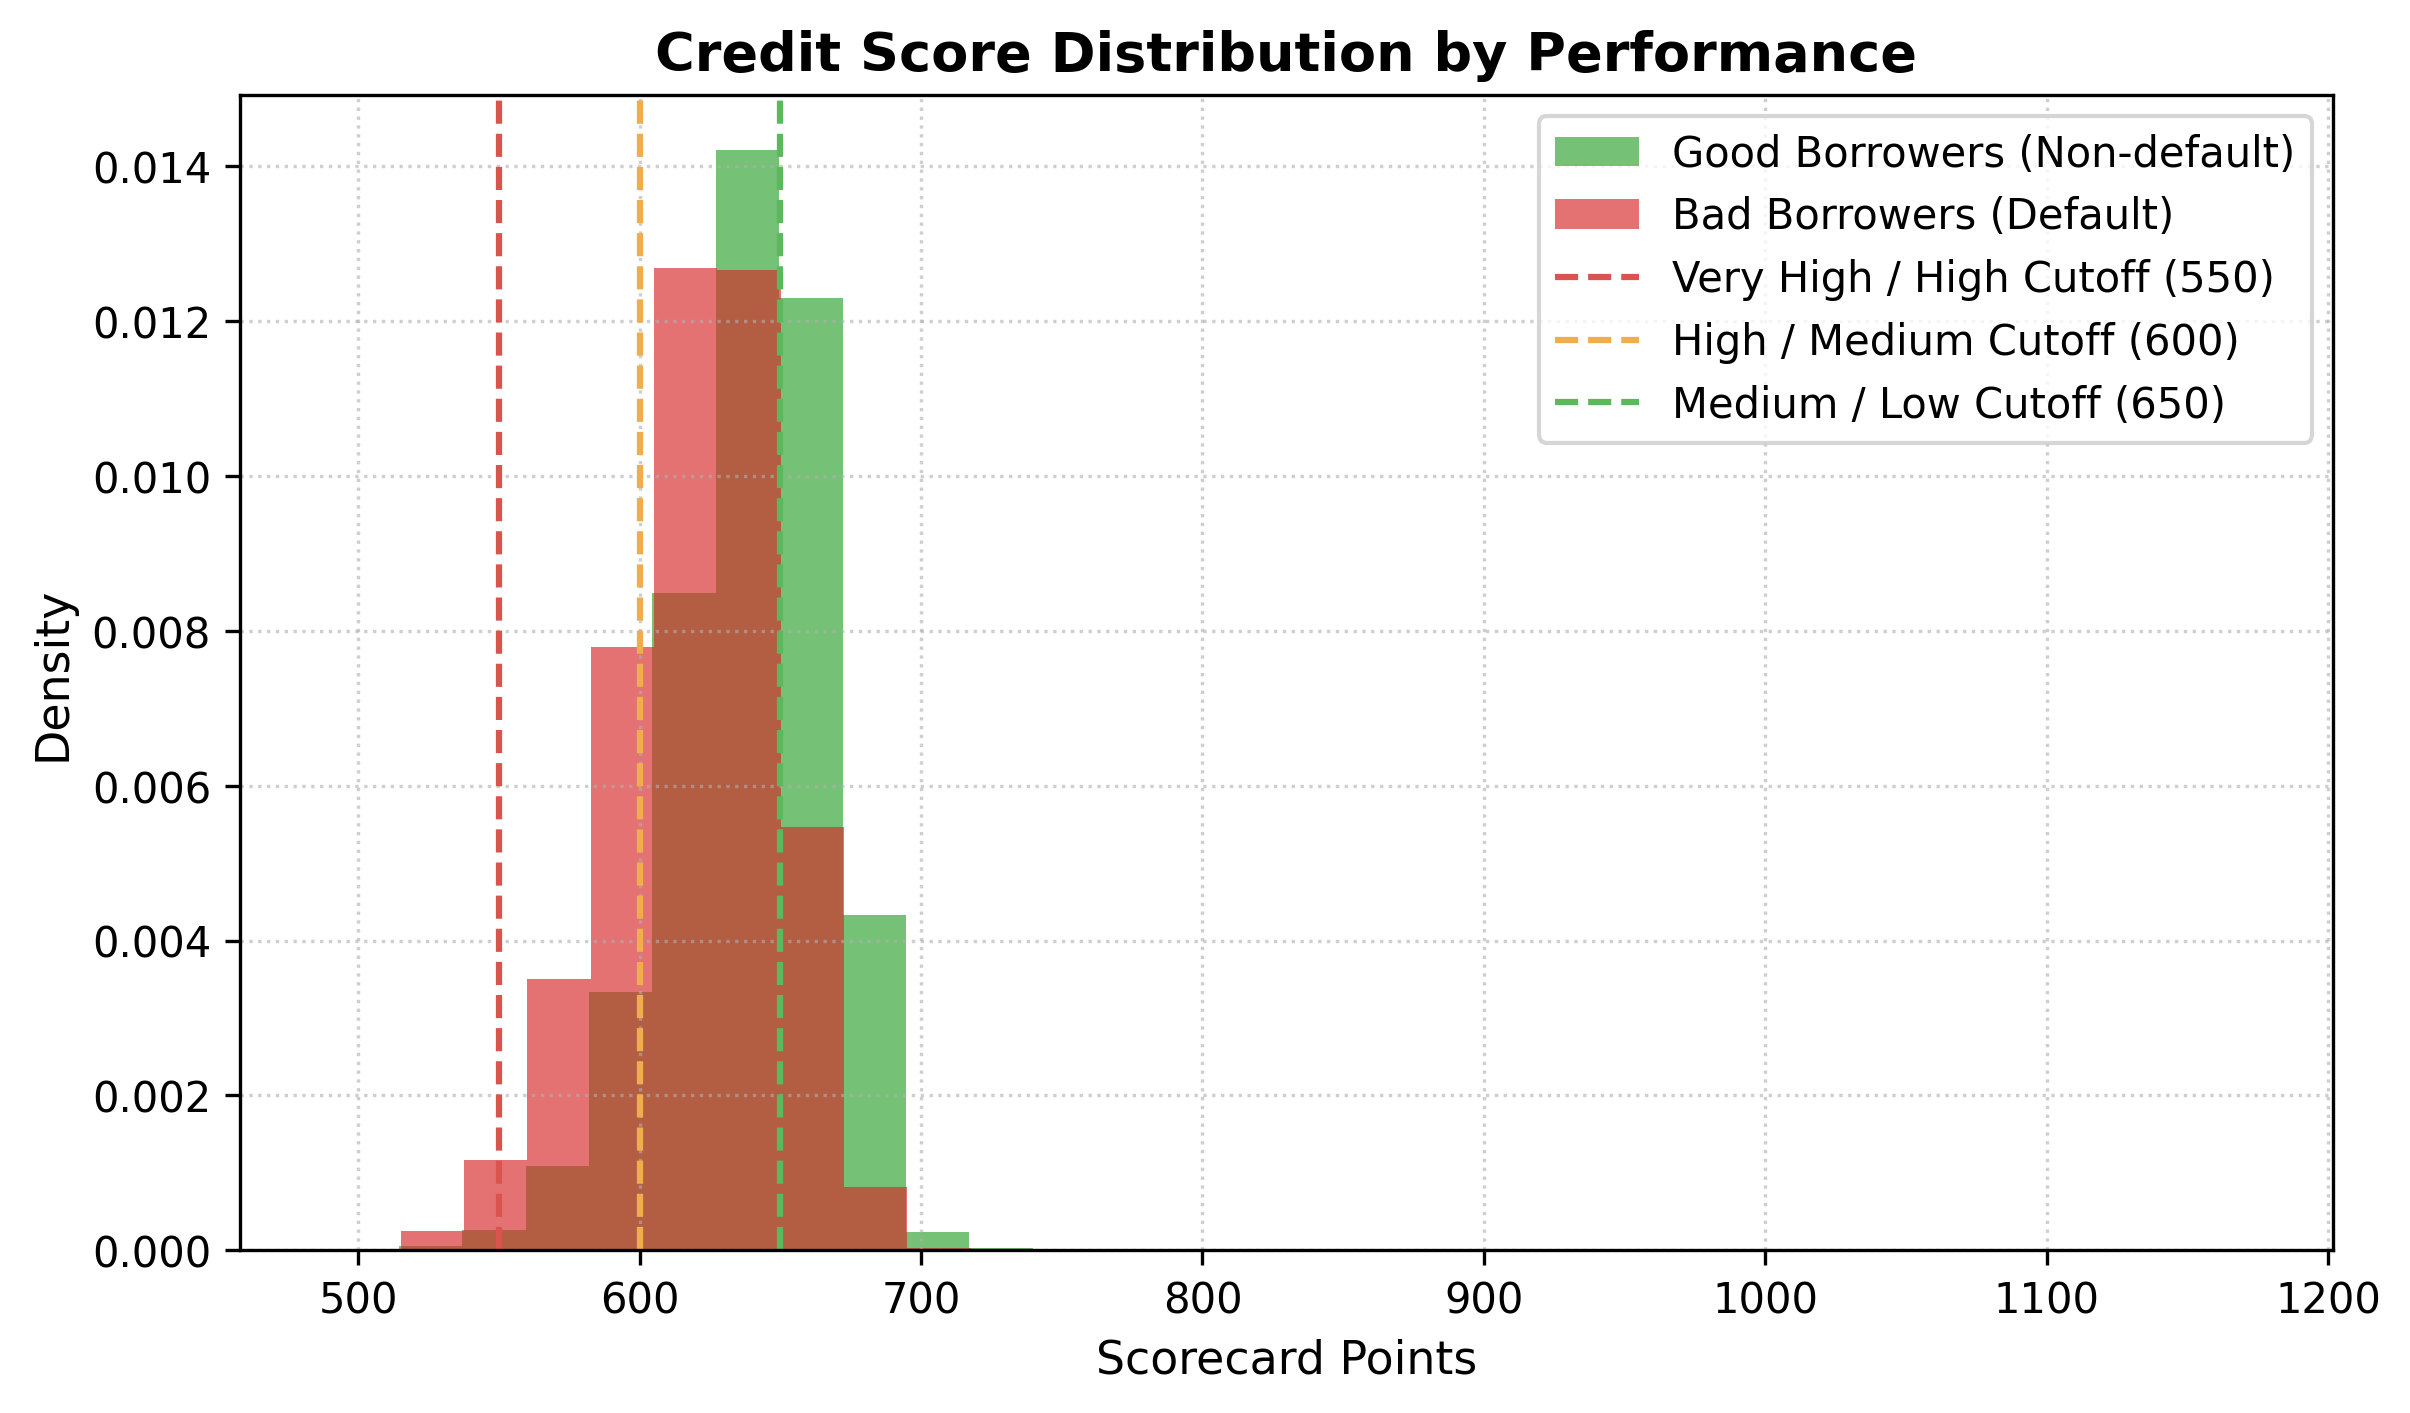
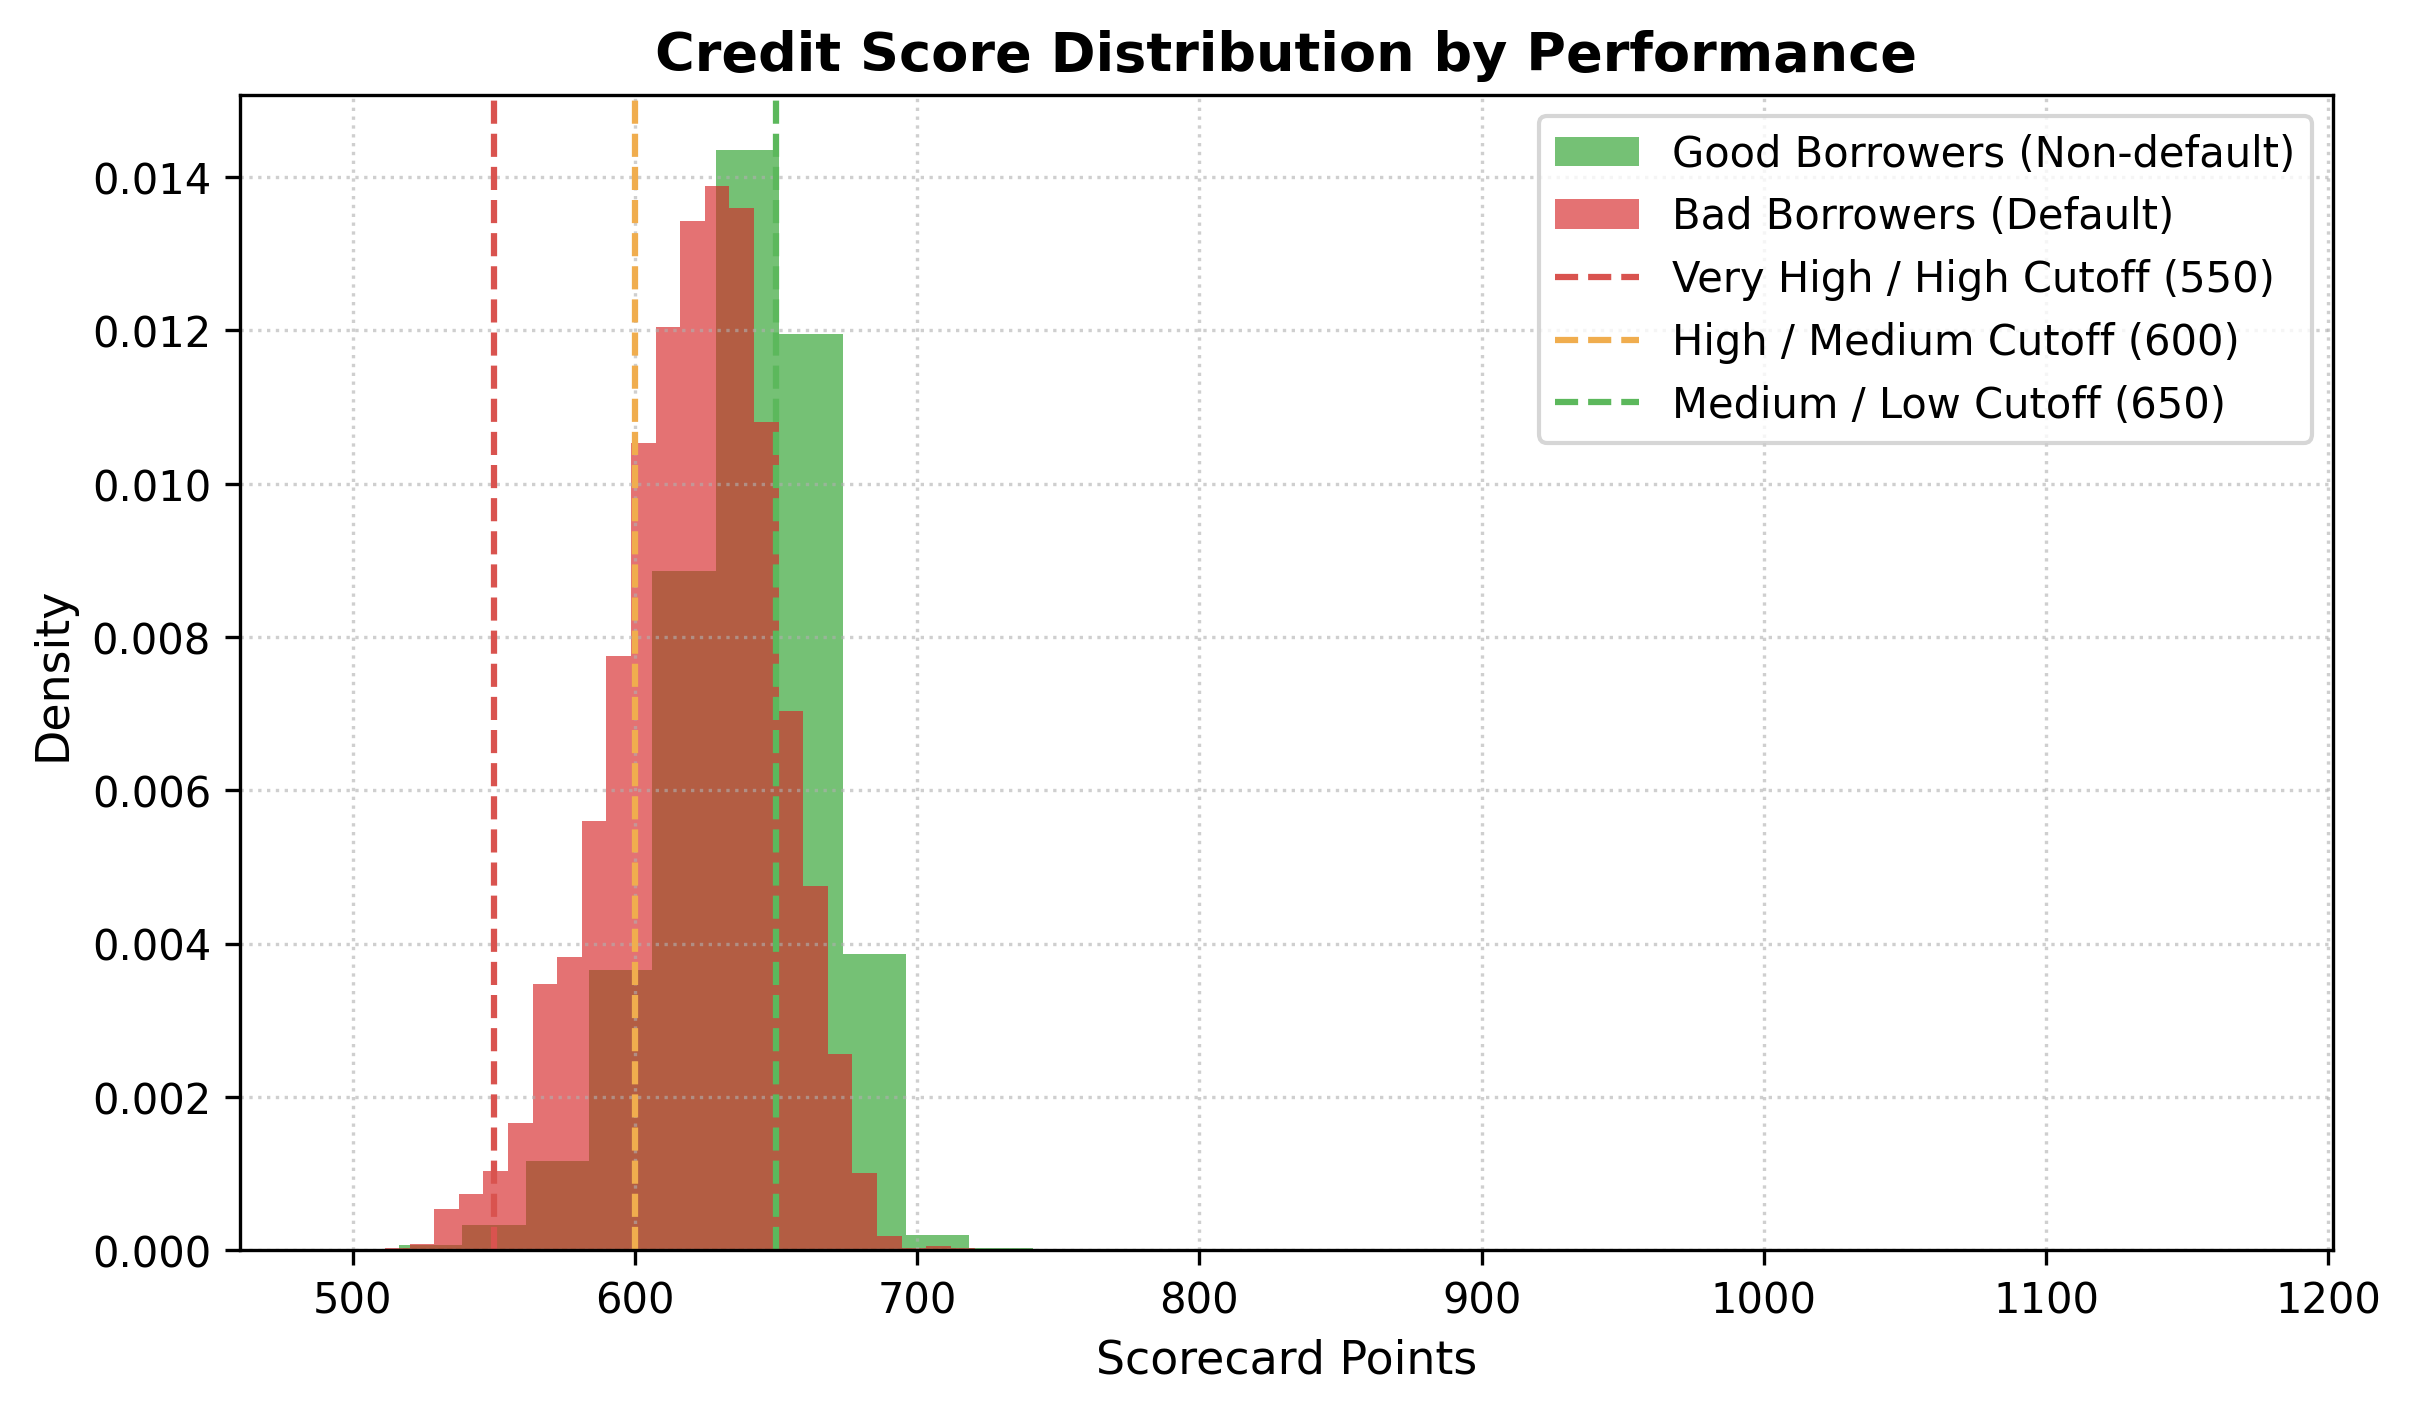
Fix full pipeline execution and plotting

diff --git a/reports/monthly_board_pack.html b/reports/monthly_board_pack.html
@@ -29,7 +29,7 @@
 <body>
 
     <h1>EXECUTIVE MONTHLY BOARD PACK</h1>
-    <div class="subtitle">Financial Performance & Credit Risk Reporting System | Period: Q4 Close | Published: November 12, 2026</div>
+    <div class="subtitle">Financial Performance & Credit Risk Reporting System | Period: Q4 Close | Published: November 17, 2026</div>
 
     <div class="kpi-container">
         <div class="kpi-card">

diff --git a/src/automation.py b/src/automation.py
@@ -20,6 +20,7 @@ import sys
 import json
 import logging
 import sqlite3
+import gc
 from datetime import datetime
 from typing import Any, Dict, Optional
 import numpy as np
@@ -114,6 +115,14 @@ def run_full_pipeline() -> Dict[str, Any]:
     eval_results = scorecard.evaluate(X_train_df, y_train)
     logger.info("Scorecard Model Eval: AUC=%.4f, Gini=%.4f, KS=%.4f",
                 eval_results["roc_auc"], eval_results["gini"], eval_results["ks_statistic"])
+    chart_sample = df_model_ready[
+        candidate_features + ["default_flag"]
+    ].sample(n=min(50_000, len(df_model_ready)), random_state=42)
+    chart_X = chart_sample[candidate_features].fillna(
+        df_model_ready[candidate_features].median()
+    )
+    chart_y = chart_sample["default_flag"].astype(int)
+    del chart_sample
 
     # Step 4: Financial Calculations
     logger.info("Step 4: Performing P&L, Balance Sheet, and Variance computations...")
@@ -171,6 +180,20 @@ def run_full_pipeline() -> Dict[str, Any]:
     conn.close()
     logger.info("SQLite database populated at %s", db_path)
 
+    loan_summary = {
+        "total_loans": len(df_loans_feat),
+        "total_exposure": df_loans_feat["loan_amnt"].sum(),
+        "total_expected_loss": df_loans_feat["expected_loss"].sum(),
+        "overall_default_rate": df_loans_feat["default_flag"].mean(),
+        "risk_band_counts": df_loans_feat["risk_band"].value_counts().to_dict(),
+        "risk_band_exposure": df_loans_feat.groupby("risk_band")["loan_amnt"].sum().to_dict(),
+        "risk_band_el": df_loans_feat.groupby("risk_band")["expected_loss"].sum().to_dict(),
+    }
+    del df_loans_raw, df_loans_clean, df_model_ready, X_train_df, y_train
+    del X_full_df, pd_estimates, scores, risk_bands, ead_estimates, expected_losses
+    del df_loans_feat
+    gc.collect()
+
     # Step 7: Reports Generation
     logger.info("Step 7: Generating Excel financial reports...")
     out_dir = get_output_path()
@@ -183,16 +206,24 @@ def run_full_pipeline() -> Dict[str, Any]:
     generate_budget_variance_report(df_variance, os.path.join(rep_dir, "budget_variance_report.xlsx"))
     generate_credit_risk_report(eval_results, os.path.join(rep_dir, "credit_risk_summary.xlsx"))
 
-    # Generate charts
-    train_scores = scorecard.calculate_score_from_pd(scorecard.predict_proba(X_train_df))
-    scorecard.plot_roc_curve(X_train_df, y_train, save_path=os.path.join(out_dir, "roc_curve.png"))
-    scorecard.plot_score_distribution(train_scores, y_true=y_train.values, save_path=os.path.join(out_dir, "score_distribution.png"))
+    # ROC construction allocates arrays proportional to the number of
+    # observations, so use the reproducible sample prepared above.
+    chart_scores = scorecard.calculate_score_from_pd(scorecard.predict_proba(chart_X))
+    scorecard.plot_roc_curve(
+        chart_X, chart_y, save_path=os.path.join(out_dir, "roc_curve.png")
+    )
+    scorecard.plot_score_distribution(
+        chart_scores, y_true=chart_y.values,
+        save_path=os.path.join(out_dir, "score_distribution.png")
+    )
 
     # Save model artifact
     scorecard.save_model("models/credit_scorecard.joblib")
 
     # Step 8: PDF / HTML Board Pack Generation
-    board_pack_path = generate_board_pack_html_and_pdf(df_pnl, df_bs, df_variance, eval_results, df_loans_feat)
+    board_pack_path = generate_board_pack_html_and_pdf(
+        df_pnl, df_bs, df_variance, eval_results, loan_summary
+    )
 
     end_time = datetime.now()
     duration_sec = (end_time - start_time).total_seconds()
@@ -202,7 +233,7 @@ def run_full_pipeline() -> Dict[str, Any]:
         "status": "SUCCESS",
         "duration_seconds": duration_sec,
         "records_processed": {
-            "loans": len(df_loans_clean),
+            "loans": loan_summary["total_loans"],
             "ledger_months": len(df_pnl)
         },
         "scorecard_metrics": eval_results,
@@ -223,7 +254,7 @@ def generate_board_pack_html_and_pdf(
     bs_df: pd.DataFrame,
     variance_df: pd.DataFrame,
     eval_metrics: Dict[str, Any],
-    loans_df: pd.DataFrame
+    loans_summary: Dict[str, Any]
 ) -> str:
     """Generate professional Board Pack HTML and PDF deliverable."""
     rep_dir = "reports"
@@ -235,13 +266,13 @@ def generate_board_pack_html_and_pdf(
     latest_pnl = pnl_df.iloc[-1]
     ytd_revenue = pnl_df["revenue"].sum()
     ytd_net_profit = pnl_df["net_profit"].sum()
-    total_exposure = loans_df["loan_amnt"].sum()
-    total_expected_loss = loans_df["expected_loss"].sum()
-    overall_default_rate = loans_df["default_flag"].mean() if "default_flag" in loans_df.columns else 0.12
+    total_exposure = loans_summary["total_exposure"]
+    total_expected_loss = loans_summary["total_expected_loss"]
+    overall_default_rate = loans_summary["overall_default_rate"]
 
-    risk_band_counts = loans_df["risk_band"].value_counts().to_dict()
-    risk_band_exposure = loans_df.groupby("risk_band")["loan_amnt"].sum().to_dict()
-    risk_band_el = loans_df.groupby("risk_band")["expected_loss"].sum().to_dict()
+    risk_band_counts = loans_summary["risk_band_counts"]
+    risk_band_exposure = loans_summary["risk_band_exposure"]
+    risk_band_el = loans_summary["risk_band_el"]
 
     html_content = f"""<!DOCTYPE html>
 <html>
@@ -486,7 +517,7 @@ startxref
         "--------------------------------------------------------------------------------",
         f"Model: Logistic Regression on WOE Binned Predictors",
         f"Target: Binary Default (Charged Off / Default vs. Fully Paid)",
-        f"Evaluation Sample: {len(loans_df):,} total loans analyzed",
+        f"Evaluation Sample: {loans_summary['total_loans']:,} total loans analyzed",
         f"ROC-AUC: {eval_metrics.get('roc_auc', 0.72):.4f} (Benchmark: >= 0.65 PASSED)",
         f"Gini Coefficient: {eval_metrics.get('gini', 0.44):.4f} (Benchmark: >= 0.30 PASSED)",
         f"Kolmogorov-Smirnov (KS): {eval_metrics.get('ks_statistic', 0.35):.4f} (Benchmark: >= 0.25 PASSED)",

diff --git a/src/credit_scorecard.py b/src/credit_scorecard.py
@@ -20,6 +20,11 @@ import logging
 import os
 from typing import Any, Dict, List, Optional, Tuple, Union
 import joblib
+import matplotlib
+
+# The analytics pipeline is a batch process and should never initialize a GUI
+# backend (which can abort on headless or remote macOS sessions).
+matplotlib.use("Agg")
 import matplotlib.pyplot as plt
 import numpy as np
 import pandas as pd
